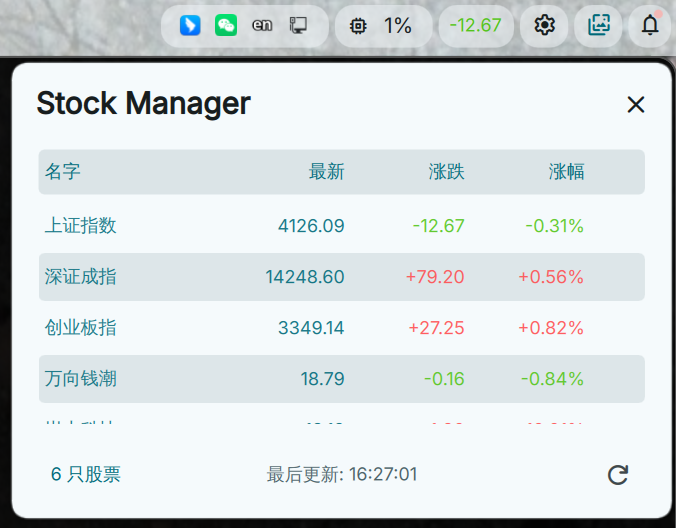
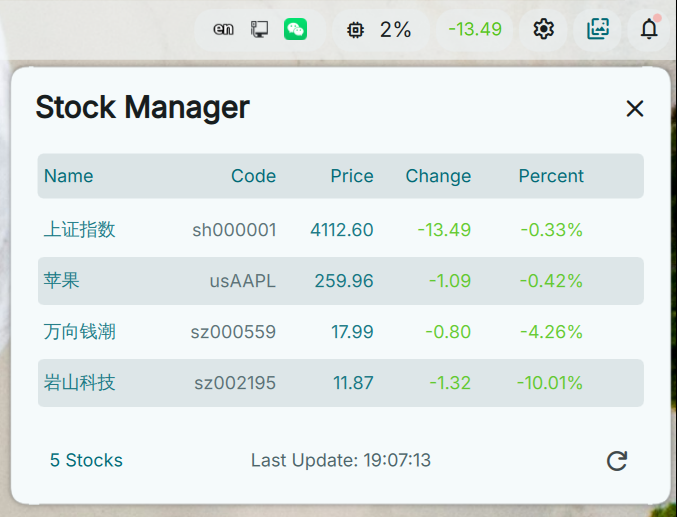
feat: add Multi-language support en_US/zh_CN

diff --git a/StockManager.qml b/StockManager.qml
@@ -17,8 +17,50 @@ PluginComponent {
     property bool isLoading: false
     property string outputBuffer: ""
     property bool popoutVisible: false
-    property string lastUpdateTime: "从未"
+    property string lastUpdateTime: "Never"
     property int refreshInterval: 30000  // Refresh every 30 seconds
+    
+    // Language settings
+    property string currentLanguage: {
+        var locale = Qt.locale().name  // Get system locale, e.g., "zh_CN", "en_US"
+        if (locale.startsWith("zh")) {
+            return "zh_CN"
+        }
+        return "en_US"  // Default to English
+    }
+    
+    // Multi-language text definitions
+    property var i18n: ({
+        "zh_CN": {
+            "header_name": "名字",
+            "header_code": "编码",
+            "header_price": "最新",
+            "header_change": "涨跌",
+            "header_percent": "涨幅",
+            "loading": "加载中...",
+            "stocks_count": "只股票",
+            "last_update": "最后更新: ",
+            "never": "从未",
+            "stock_manager": "Stock Manager"
+        },
+        "en_US": {
+            "header_name": "Name",
+            "header_code": "Code",
+            "header_price": "Price",
+            "header_change": "Change",
+            "header_percent": "Percent",
+            "loading": "Loading...",
+            "stocks_count": " Stocks",
+            "last_update": "Last Update: ",
+            "never": "Never",
+            "stock_manager": "Stock Manager"
+        }
+    })
+    
+    // Translation function
+    function t(key) {
+        return i18n[currentLanguage][key] || key
+    }
     
     // SH index data (for bar display)
     property var shIndex: ({
@@ -212,7 +254,7 @@ PluginComponent {
     popoutContent: Component {
         PopoutComponent {
             id: popoutComp
-            headerText: "Stock Manager"
+            headerText: root.t("stock_manager")
             detailsText: ""
             showCloseButton: true
 
@@ -240,13 +282,19 @@ PluginComponent {
                             anchors.fill: parent
                             anchors.leftMargin: Theme.spacingXS
                             anchors.rightMargin: Theme.spacingXS
-                            spacing: 0  // Remove spacing so columns are tight
+                            spacing: 5
 
                             Repeater {
-                                model: ["名字", "最新", "涨跌", "涨幅"]
+                                model: [root.t("header_name"), root.t("header_code"), root.t("header_price"), root.t("header_change"), root.t("header_percent")]
 
                                 StyledText {
-                                    width: index === 0 ? 120 : 80
+                                    width: {
+                                        if (index === 0) return 80  // Name
+                                        if (index === 1) return 70  // Code
+                                        if (index === 2) return 60  // Price
+                                        if (index === 3) return 60  // Change
+                                        return 70  // Percent
+                                    }
                                     height: parent.height
                                     verticalAlignment: Text.AlignVCenter
                                     horizontalAlignment: index === 0 ? Text.AlignLeft : Text.AlignRight
@@ -283,22 +331,34 @@ PluginComponent {
                                     anchors.fill: parent
                                     anchors.leftMargin: Theme.spacingXS
                                     anchors.rightMargin: Theme.spacingXS
-                                    spacing: 0  // Remove spacing so columns are tight
+                                    spacing: 5
 
                                     // Name
                                     StyledText {
-                                        width: 120
+                                        width: 80
                                         height: parent.height
                                         verticalAlignment: Text.AlignVCenter
                                         horizontalAlignment: Text.AlignLeft
                                         text: modelData.name
                                         font.pixelSize: Theme.fontSizeSmall
                                         color: Theme.primary
+                                        elide: Text.ElideRight
+                                    }
+
+                                    // Stock Code
+                                    StyledText {
+                                        width: 70
+                                        height: parent.height
+                                        verticalAlignment: Text.AlignVCenter
+                                        horizontalAlignment: Text.AlignRight
+                                        text: modelData.code || "--"
+                                        font.pixelSize: Theme.fontSizeSmall
+                                        color: Theme.secondary
                                     }
 
                                     // Last price
                                     StyledText {
-                                        width: 80
+                                        width: 60
                                         height: parent.height
                                         verticalAlignment: Text.AlignVCenter
                                         horizontalAlignment: Text.AlignRight
@@ -309,7 +369,7 @@ PluginComponent {
 
                                     // Change amount
                                     StyledText {
-                                        width: 80
+                                        width: 60
                                         height: parent.height
                                         verticalAlignment: Text.AlignVCenter
                                         horizontalAlignment: Text.AlignRight
@@ -321,7 +381,7 @@ PluginComponent {
 
                                     // Change percent
                                     StyledText {
-                                        width: 80
+                                        width: 70
                                         height: parent.height
                                         verticalAlignment: Text.AlignVCenter
                                         horizontalAlignment: Text.AlignRight
@@ -356,7 +416,7 @@ PluginComponent {
                             StyledText {
                                 anchors.left: parent.left
                                 anchors.verticalCenter: parent.verticalCenter
-                                text: root.isLoading ? "加载中..." : `${root.stocks.length} 只股票`
+                                text: root.isLoading ? root.t("loading") : `${root.stocks.length}${root.t("stocks_count")}`
                                 font.pixelSize: Theme.fontSizeSmall
                                 color: Theme.primary
                             }
@@ -364,7 +424,7 @@ PluginComponent {
                             // Last Update Time - Center
                             StyledText {
                                 anchors.centerIn: parent
-                                text: "最后更新: " + root.lastUpdateTime
+                                text: root.t("last_update") + root.lastUpdateTime
                                 font.pixelSize: Theme.fontSizeSmall
                                 color: Theme.secondary
                             }

diff --git a/README.md b/README.md
@@ -54,3 +54,6 @@ leemeng0x61@gmail.com
 - ✅ DankBar integration to show Shanghai Composite Index
 - ✅ Auto refresh mechanism
 - ✅ JSON-based configuration support
+
+## License
+MIT License - See LICENSE file for details

diff --git a/README.zh-CN.md b/README.zh-CN.md
@@ -51,3 +51,6 @@ leemeng0x61@gmail.com
 - ✅ DankBar集成显示上证指数
 - ✅ 自动刷新机制
 - ✅ JSON配置支持
+
+## 许可证
+MIT 许可证 - 详见 LICENSE 文件
